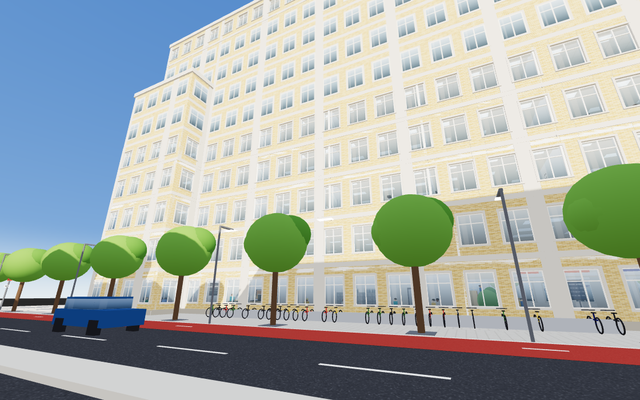
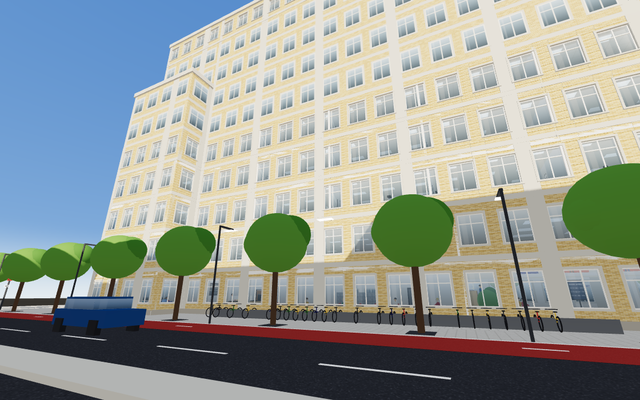
docentenleven v5
Achtervolging door een boze student (vluchten naar de 9e), 3D-modellen voor
personen en meubels, PBR-materialen met reliëf en reflecties, hoofdbeweging.

Claude-Session: https://claude.ai/code/session_01V6K2mFZpvTUMqVLnQnE36K

diff --git a/docentenleven/index.html b/docentenleven/index.html
@@ -68,6 +68,11 @@ button:disabled{opacity:.35;cursor:not-allowed}
 .tabs button{background:#fff;color:var(--ink);border:1px solid #d6d3c8;padding:6px 12px}
 .tabs button.on{background:var(--navy);color:#fff}
 .note{font-size:12.5px;color:#5b5c70}
+#chase{left:50%;top:calc(132px + env(safe-area-inset-top,0px));transform:translateX(-50%);background:rgba(150,24,24,.92);border-color:rgba(255,160,160,.5);text-align:center;max-width:min(560px,86vw);white-space:normal}
+#chase b{display:block;font-size:17px;font-weight:900;letter-spacing:.01em}
+#chase span{font-size:13px;color:#ffd9d4}
+#chasebar{height:5px;border-radius:3px;background:rgba(255,255,255,.2);margin-top:8px;overflow:hidden}#chasebar i{display:block;height:100%;width:50%;background:#ffd23f}
+#danger{position:fixed;inset:0;pointer-events:none;z-index:4;opacity:0;background:radial-gradient(ellipse at center,rgba(0,0,0,0) 45%,rgba(190,0,0,.55) 100%)}
 #fade{position:fixed;inset:0;background:#000;opacity:0;pointer-events:none;z-index:15;transition:opacity .25s}
 #joy{position:fixed;z-index:6;left:calc(24px + env(safe-area-inset-left,0px));bottom:calc(70px + env(safe-area-inset-bottom,0px));width:120px;height:120px;border-radius:50%;background:rgba(255,255,255,.08);border:1.5px solid rgba(255,255,255,.25)}
 #knob{position:absolute;left:38px;top:38px;width:44px;height:44px;border-radius:50%;background:rgba(255,255,255,.55)}
@@ -100,6 +105,8 @@ button:disabled{opacity:.35;cursor:not-allowed}
 </div>
 <div id="joy" hidden><div id="knob"></div></div>
 <button id="actbtn" type="button" hidden>E</button>
+<div id="danger"></div>
+<div id="chase" class="hud plate" hidden><b id="chase-t">Een student zit achter je aan!</b><span id="chase-s">Hij is het niet eens met zijn beoordeling. Vlucht naar de 9e verdieping.</span><div id="chasebar"><i id="chase-i"></i></div></div>
 <div id="fade"></div>
 
 <!-- start -->
@@ -118,8 +125,9 @@ button:disabled{opacity:.35;cursor:not-allowed}
         <span class="key">E</span><span>oppakken, lift of trap nemen</span>
         <span class="key">N</span><span>agenda met aanwijzingen</span>
         <span class="key">M</span><span>plattegrond per verdieping</span>
+        <span class="key">!</span><span>krijg je een melding dat een boze student achter je aan zit? Ren (Shift) naar de 9e verdieping, daar ben je veilig.</span>
       </div>
-      <div class="row"><button class="primary" id="b-start" type="button">Begin de zoektocht</button><span class="note">Op telefoon: joystick links, veeg rechts om te kijken. · v4</span></div>
+      <div class="row"><button class="primary" id="b-start" type="button">Begin de zoektocht</button><span class="note">Op telefoon: joystick links, veeg rechts om te kijken. · v5</span></div>
     </div>
   </div>
 </div>
@@ -165,12 +173,12 @@ const renderer=new THREE.WebGLRenderer({antialias:true});
 renderer.setPixelRatio(Math.min(window.devicePixelRatio||1,1.75));
 renderer.setSize(innerWidth,innerHeight);
 renderer.outputEncoding=THREE.sRGBEncoding;
-renderer.toneMapping=THREE.ACESFilmicToneMapping;renderer.toneMappingExposure=1.12;
+renderer.toneMapping=THREE.ACESFilmicToneMapping;renderer.toneMappingExposure=0.95;
 renderer.shadowMap.enabled=true;renderer.shadowMap.type=THREE.PCFSoftShadowMap;renderer.shadowMap.autoUpdate=false;
 document.getElementById('stage').appendChild(renderer.domElement);
 const C=c=>new THREE.Color(c).convertSRGBToLinear();
 // per-pixel matte material: unlike Lambert in r128, each light is shadowed separately, so the interior fill lights still work in the sun's shadow
-const LM=o=>new THREE.MeshPhongMaterial(Object.assign({specular:0x000000,shininess:2},o));
+const LM=o=>new THREE.MeshStandardMaterial(Object.assign({roughness:0.82,metalness:0,envMapIntensity:0.35},o));
 const scene=new THREE.Scene();
 scene.fog=new THREE.Fog(C(0xdbe5ec),90,330);
 const camera=new THREE.PerspectiveCamera(70,innerWidth/innerHeight,0.05,900);
@@ -181,13 +189,17 @@ const sky=new THREE.Mesh(new THREE.SphereGeometry(600,32,16),new THREE.ShaderMat
   vertexShader:'varying vec3 vD;void main(){vD=normalize(position);gl_Position=projectionMatrix*modelViewMatrix*vec4(position,1.);}',
   fragmentShader:'uniform vec3 top;uniform vec3 mid;uniform vec3 bot;uniform vec3 sunDir;varying vec3 vD;void main(){float h=vD.y;vec3 c=h>0.?mix(mid,top,pow(h,0.55)):bot;c=mix(bot,c,smoothstep(-0.02,0.18,h));float s=max(dot(normalize(vD),sunDir),0.);c+=vec3(1.,.93,.78)*(pow(s,600.)*1.5+pow(s,12.)*0.18);gl_FragColor=vec4(c,1.);}'}));
 sky.renderOrder=-1;scene.add(sky);
+// image-based light from the same sky, so every surface picks up soft reflections and sky light
+{const pm=new THREE.PMREMGenerator(renderer);const es=new THREE.Scene();es.add(new THREE.Mesh(sky.geometry,sky.material));
+ const gnd=new THREE.Mesh(new THREE.CircleGeometry(400,24),new THREE.MeshBasicMaterial({color:0x8d8a82}));gnd.rotation.x=-Math.PI/2;gnd.position.y=-2;es.add(gnd);
+ scene.environment=pm.fromScene(es,0.02).texture;pm.dispose();}
 const hemi=new THREE.HemisphereLight(C(0xe3edff),C(0x9a8a70),0.85);scene.add(hemi);
 const amb=new THREE.AmbientLight(C(0xffffff),0.32);scene.add(amb);
 // interior fill: daylight through the street-side windows plus warm light from the fittings; faded in when you walk inside
 const fillWin=new THREE.DirectionalLight(C(0xdfe9ff),0);fillWin.position.set(0.25,0.5,1);scene.add(fillWin);
 const fillWarm=new THREE.DirectionalLight(C(0xffe2bd),0);fillWarm.position.set(-0.6,1,-0.35);scene.add(fillWarm);
 let inMix=0;
-const sun=new THREE.DirectionalLight(C(0xfff0d6),2.3);
+const sun=new THREE.DirectionalLight(C(0xfff0d6),1.9);
 sun.position.set(0.45,0.55,0.7).normalize().multiplyScalar(160);sun.castShadow=true;
 Object.assign(sun.shadow.camera,{left:-85,right:85,top:85,bottom:-85,near:20,far:340});
 sun.shadow.mapSize.set(4096,4096);sun.shadow.bias=-0.00035;sun.shadow.normalBias=0.035;
@@ -213,8 +225,14 @@ function drawBricks(g,x0,y0,w,h,ppm,pal=YB,mortar='#ddd5c3'){
   let row=0;for(let y=y0;y<y0+h;y+=bh,row++){const off=(row%2)*bw/2;for(let x=x0-off;x<x0+w;x+=bw){g.fillStyle=pal[Math.floor(rnd()*pal.length)];const xa=Math.max(x0,x),xb=Math.min(x0+w,x+bw-m);if(xb>xa)g.fillRect(xa,y,xb-xa,Math.min(bh-m,y0+h-y));}}
 }
 const brickBase=tex(cvs(264,150,(g,w,h)=>drawBricks(g,0,0,w,h,300)));
+// height -> normal map (linear), for real relief on bricks, tiles, planks and terrazzo
+function nrm(src,str,lum){const w=src.width,h=src.height,d=src.getContext('2d').getImageData(0,0,w,h).data;
+  const H=(x,y)=>{const i=(((y+h)%h)*w+((x+w)%w))*4;return lum?(d[i]+d[i+1]+d[i+2])/765:d[i]/255;};
+  const c=cvs(w,h,(g)=>{const im=g.createImageData(w,h);for(let y=0;y<h;y++)for(let x=0;x<w;x++){const dx=(H(x+1,y)-H(x-1,y))*str,dy=(H(x,y+1)-H(x,y-1))*str,l=1/Math.hypot(dx,dy,1),i=(y*w+x)*4;im.data[i]=(-dx*l*0.5+0.5)*255;im.data[i+1]=(dy*l*0.5+0.5)*255;im.data[i+2]=(l*0.5+0.5)*255;im.data[i+3]=255;}g.putImageData(im,0,0);});
+  const t=new THREE.CanvasTexture(c);t.wrapS=t.wrapT=THREE.RepeatWrapping;t.anisotropy=MAXANI;return t;}
+const brickN=nrm(cvs(264,150,(g,w,h)=>{drawBricks(g,0,0,w,h,300,['#ffffff'],'#2a2a2a');}),3.2);
 const brickCache={};
-function brickM(w,h){const k=w.toFixed(2)+'x'+h.toFixed(2);if(!brickCache[k]){const t=brickBase.clone();t.needsUpdate=true;t.repeat.set(w/0.88,h/0.5);brickCache[k]=LM({map:t});}return brickCache[k];}
+function brickM(w,h){const k=w.toFixed(2)+'x'+h.toFixed(2);if(!brickCache[k]){const t=brickBase.clone();t.needsUpdate=true;t.repeat.set(w/0.88,h/0.5);const n=brickN.clone();n.needsUpdate=true;n.repeat.copy(t.repeat);brickCache[k]=LM({map:t,normalMap:n,normalScale:new THREE.Vector2(0.9,0.9),roughness:0.92});}return brickCache[k];}
 function noiseTex(base,size=256,amp=18,speck){return cvs(size,size,(g,w,h)=>{g.fillStyle=base;g.fillRect(0,0,w,h);for(let i=0;i<w*h/6;i++){const v=(rnd()-.5)*amp;g.fillStyle=`rgba(${v>0?255:0},${v>0?255:0},${v>0?255:0},${Math.abs(v)/100})`;g.fillRect(rnd()*w,rnd()*h,1.5,1.5);}if(speck)for(let i=0;i<speck.n;i++){g.fillStyle=pick(speck.c);const r=rnd()*speck.r+0.6;g.beginPath();g.arc(rnd()*w,rnd()*h,r,0,7);g.fill();}});}
 const T={
   terrazzo:tex(noiseTex('#d6d0c4',256,14,{n:900,c:['#9b958a','#6f6a62','#b9ab92','#eee9df','#8c7a64'],r:2.2})),
@@ -233,6 +251,7 @@ const corkTex=tex(cvs(256,160,(g,w,h)=>{g.fillStyle='#b88a55';g.fillRect(0,0,w,h
 const glassTex=tex(cvs(32,128,(g,w,h)=>{const gr=g.createLinearGradient(0,0,0,h);gr.addColorStop(0,'#b7cde0');gr.addColorStop(0.45,'#7f97aa');gr.addColorStop(1,'#3e4f5c');g.fillStyle=gr;g.fillRect(0,0,w,h);g.fillStyle='rgba(255,255,255,.12)';g.fillRect(4,0,6,h);}));
 const stainedTex=tex(cvs(128,128,(g)=>{const pal=['#e9b93a','#d66b2e','#2f5fa8','#3d8c5a','#f2e6c2','#b83a3a','#6fa0c9','#f0d27a'];for(let i=0;i<6;i++)for(let j=0;j<6;j++){const w=128/6;g.fillStyle=pick(pal);g.fillRect(i*w,j*w,w*(rnd()<.25?2:1),w);}g.strokeStyle='#1b1b1b';g.lineWidth=3;for(let i=0;i<=6;i++){g.beginPath();g.moveTo(i*128/6,0);g.lineTo(i*128/6,128);g.stroke();g.beginPath();g.moveTo(0,i*128/6);g.lineTo(128,i*128/6);g.stroke();}}));
 
+const FLOORN=new Map([[T.terrazzo,[nrm(T.terrazzo.image,2.2,true),0.38]],[T.tiles,[nrm(T.tiles.image,4,true),0.3]],[T.wood,[nrm(T.wood.image,5,true),0.5]],[T.lino,[nrm(T.lino.image,1.2,true),0.55]],[T.carpet,[nrm(T.carpet.image,1.5,true),0.97]],[T.libcarpet,[nrm(T.libcarpet.image,1.5,true),0.97]],[T.asphalt,[nrm(T.asphalt.image,1.6,true),0.9]]]);
 function textCanvas(w,h,bg,draw){return cvs(w,h,(g)=>{g.fillStyle=bg;g.fillRect(0,0,w,h);draw(g,w,h);});}
 const SANS='"Helvetica Neue",Arial,sans-serif';
 function signTex(code,name,bg='#1d1f5e',fg='#ffffff'){return tex(textCanvas(512,256,bg,(g)=>{g.fillStyle=fg;g.font=`bold 92px ${SANS}`;g.fillText(code,30,120);g.font=`500 44px ${SANS}`;g.globalAlpha=.85;g.fillText(name,32,200);}));}
@@ -259,16 +278,27 @@ const mat={
   hair:[L(0x2a2b30),L(0x5a3a22),L(0x8a6a3a),L(0xd9b45a),L(0x111111)],
 };
 
+for(const [m,r,mt] of [[mat.steel,0.32,0.75],[mat.steelDark,0.4,0.6],[mat.copier,0.5,0],[mat.wood,0.55,0],[mat.woodDark,0.5,0],[mat.white,0.45,0],[mat.frame,0.45,0.2],[mat.frameW,0.5,0],[mat.dark,0.5,0],[mat.pot,0.6,0],[mat.red,0.45,0],[mat.screen,0.2,0],[mat.blackCeil,0.95,0],[mat.roof,0.95,0],[mat.conc,0.9,0]])Object.assign(m,{roughness:r,metalness:mt});
+Object.assign(mat.glass,{roughness:0.06,metalness:0.25,envMapIntensity:1.4});Object.assign(mat.glassIn,{roughness:0.05,envMapIntensity:1.2});
+mat.skin.forEach(m=>m.roughness=0.6);mat.hair.forEach(m=>m.roughness=0.7);
+mat.eye=L(0x1a1a1a,{roughness:0.2});mat.shoe=L(0x222226,{roughness:0.55});mat.sole=L(0xe9e6df);
 // ================= instanced batching =================
-const geos={box:new THREE.BoxGeometry(1,1,1),cyl:new THREE.CylinderGeometry(.5,.5,1,18),sph:new THREE.SphereGeometry(.5,16,12),tor:new THREE.TorusGeometry(.32,.028,6,18)};
+function roundedBox(r,k=3){const N=2*k+1,g=new THREE.BoxGeometry(1,1,1,N,N,N),pos=g.attributes.position,nor=g.attributes.normal,h=0.5-r;
+  const map=u=>{const i=Math.round((u+0.5)*N);return i<=k?-0.5+r*i/k:h+r*(i-k-1)/k;};const v=new THREE.Vector3(),c=new THREE.Vector3();
+  for(let i=0;i<pos.count;i++){v.set(map(pos.getX(i)),map(pos.getY(i)),map(pos.getZ(i)));c.set(Math.max(-h,Math.min(h,v.x)),Math.max(-h,Math.min(h,v.y)),Math.max(-h,Math.min(h,v.z)));v.sub(c).normalize();nor.setXYZ(i,v.x,v.y,v.z);v.multiplyScalar(r).add(c);pos.setXYZ(i,v.x,v.y,v.z);}
+  return g;}
+const geos={box:new THREE.BoxGeometry(1,1,1),cyl:new THREE.CylinderGeometry(.5,.5,1,18),sph:new THREE.SphereGeometry(.5,20,14),tor:new THREE.TorusGeometry(.32,.028,8,24),rb:roundedBox(0.16),rs:roundedBox(0.3),cap:new THREE.CylinderGeometry(.5,.42,1,16)};
 const batches=new Map();
-function P(geo,group,m,x,y,z,sx,sy,sz,ry=0){const key=geo+'|'+group.id+'|'+(Array.isArray(m)?m.map(a=>a.id).join(','):m.id);let b=batches.get(key);if(!b){b={geo,group,m,items:[]};batches.set(key,b);}b.items.push([x,y+sy/2,z,sx,sy,sz,ry]);}
-const B=(g,m,x,y,z,sx,sy,sz,ry)=>P('box',g,m,x,y,z,sx,sy,sz,ry);
-function flush(){const m4=new THREE.Matrix4(),q=new THREE.Quaternion(),p=new THREE.Vector3(),s=new THREE.Vector3(),up=new THREE.Vector3(0,1,0);
-  for(const b of batches.values()){const im=new THREE.InstancedMesh(geos[b.geo],b.m,b.items.length);b.items.forEach((it,i)=>{p.set(it[0],it[1],it[2]);s.set(it[3],it[4],it[5]);q.setFromAxisAngle(up,it[6]);m4.compose(p,q,s);im.setMatrixAt(i,m4);});
+function P(geo,group,m,x,y,z,sx,sy,sz,ry=0){const key=geo+'|'+group.id+'|'+(Array.isArray(m)?m.map(a=>a.id).join(','):m.id);let b=batches.get(key);if(!b){b={geo,group,m,items:[]};batches.set(key,b);}b.items.push([x,y+sy/2,z,sx,sy,sz,ry,0,0]);}
+// centred part with full rotation (Euler YXZ): limbs, arms, tilted pieces
+function Q(geo,group,m,x,y,z,sx,sy,sz,rx=0,ry=0,rz=0){P(geo,group,m,x,y-sy/2,z,sx,sy,sz,ry);batches.get(geo+'|'+group.id+'|'+m.id).items.slice(-1)[0].splice(7,2,rx,rz);}
+const SOFT=new Set([mat.cushionA,mat.cushionB,mat.cushionC]);
+const B=(g,m,x,y,z,sx,sy,sz,ry)=>P(SOFT.has(m)?'rb':'box',g,m,x,y,z,sx,sy,sz,ry);
+function flush(){const m4=new THREE.Matrix4(),q=new THREE.Quaternion(),p=new THREE.Vector3(),s=new THREE.Vector3(),up=new THREE.Vector3(0,1,0),eu=new THREE.Euler(0,0,0,'YXZ');
+  for(const b of batches.values()){const im=new THREE.InstancedMesh(geos[b.geo],b.m,b.items.length);b.items.forEach((it,i)=>{p.set(it[0],it[1],it[2]);s.set(it[3],it[4],it[5]);if(it[7]||it[8]){eu.set(it[7],it[6],it[8]);q.setFromEuler(eu);}else q.setFromAxisAngle(up,it[6]);m4.compose(p,q,s);im.setMatrixAt(i,m4);});
     im.instanceMatrix.needsUpdate=true;im.frustumCulled=false;const m0=Array.isArray(b.m)?b.m[0]:b.m;im.castShadow=!(m0.transparent||m0.isMeshBasicMaterial);im.receiveShadow=!m0.isMeshBasicMaterial;b.group.add(im);}
   batches.clear();}
-function plane(group,x0,x1,z0,z1,y,base,tile,down=false,extra={}){const w=x1-x0,d=z1-z0;const t=base.clone();t.needsUpdate=true;t.repeat.set(w/tile,d/tile);const m=LM(Object.assign({map:t,shadowSide:THREE.DoubleSide},extra));const me=new THREE.Mesh(new THREE.PlaneGeometry(w,d),m);me.rotation.x=down?Math.PI/2:-Math.PI/2;me.position.set((x0+x1)/2,y,(z0+z1)/2);me.receiveShadow=true;me.castShadow=down;group.add(me);return me;}
+function plane(group,x0,x1,z0,z1,y,base,tile,down=false,extra={}){const w=x1-x0,d=z1-z0;const t=base.clone();t.needsUpdate=true;t.repeat.set(w/tile,d/tile);const fn=!down&&FLOORN.get(base);const o={map:t,shadowSide:THREE.DoubleSide};if(fn){const n=fn[0].clone();n.needsUpdate=true;n.repeat.copy(t.repeat);o.normalMap=n;o.normalScale=new THREE.Vector2(0.6,0.6);o.roughness=fn[1];}const m=LM(Object.assign(o,extra));const me=new THREE.Mesh(new THREE.PlaneGeometry(w,d),m);me.rotation.x=down?Math.PI/2:-Math.PI/2;me.position.set((x0+x1)/2,y,(z0+z1)/2);me.receiveShadow=true;me.castShadow=down;group.add(me);return me;}
 function flat(group,x0,x1,z0,z1,y,m,down=false){const me=new THREE.Mesh(new THREE.PlaneGeometry(x1-x0,z1-z0),m);me.rotation.x=down?Math.PI/2:-Math.PI/2;me.position.set((x0+x1)/2,y,(z0+z1)/2);me.receiveShadow=true;me.castShadow=down;group.add(me);return me;}
 function sign(group,t,w,h,x,y,z,ry=0,basic=true){const m=basic?new THREE.MeshBasicMaterial({map:t,toneMapped:false}):LM({map:t});const me=new THREE.Mesh(new THREE.PlaneGeometry(w,h),m);me.position.set(x,y,z);me.rotation.y=ry;group.add(me);return me;}
 
@@ -299,10 +329,12 @@ const inside=(x,z)=>(x>-48&&x<48&&z>-9&&z<9)||(Math.abs(x)>38&&Math.abs(x)<48&&z
 
 // ================= furniture =================
 function chair(f,x,z,a,m=mat.chair,yOff=0){const g=F[f].g,y=f*FH+yOff,sx=Math.sin(a),sz=Math.cos(a);
-  B(g,m,x,y+0.42,z,0.44,0.05,0.42,a);B(g,m,x-sx*0.2,y+0.47,z-sz*0.2,0.44,0.4,0.04,a);
-  B(g,mat.steelDark,x+Math.cos(a)*0.19,y,z-Math.sin(a)*0.19,0.03,0.42,0.38,a);B(g,mat.steelDark,x-Math.cos(a)*0.19,y,z+Math.sin(a)*0.19,0.03,0.42,0.38,a);}
+  const lx=Math.cos(a),lz=-Math.sin(a);
+  P('rb',g,m,x,y+0.4,z,0.46,0.07,0.44,a);Q('rb',g,m,x-sx*0.215,y+0.72,z-sz*0.215,0.44,0.42,0.06,-0.12,a);
+  for(const u of [-0.19,0.19])for(const v of [-0.17,0.17])P('cyl',g,mat.steelDark,x+lx*u+sx*v,y,z+lz*u+sz*v,0.03,0.41,0.03);
+  for(const u of [-0.19,0.19])Q('cyl',g,mat.steelDark,x+lx*u-sx*0.2,y+0.58,z+lz*u-sz*0.2,0.025,0.36,0.025,-0.12,a);}
 function table(f,x,z,w,d,h=0.74,top=mat.wood,collide=true){const g=F[f].g,y=f*FH;B(g,top,x,y+h-0.03,z,w,0.03,d);
-  for(const sx of [-1,1])for(const sz of [-1,1])B(g,mat.steelDark,x+sx*(w/2-0.06),y,z+sz*(d/2-0.06),0.04,h-0.03,0.04);
+  for(const sx of [-1,1])for(const sz of [-1,1])P('cyl',g,mat.steelDark,x+sx*(w/2-0.06),y,z+sz*(d/2-0.06),0.045,h-0.03,0.045);
   if(collide)col(f,x-w/2,z-d/2,x+w/2,z+d/2);}
 function roundTable(f,x,z,r=0.45,h=0.74){const g=F[f].g,y=f*FH;P('cyl',g,mat.white,x,y+h-0.03,z,r*2,0.03,r*2);P('cyl',g,mat.steelDark,x,y,z,0.07,h-0.03,0.07);P('cyl',g,mat.steelDark,x,y,z,0.5,0.03,0.5);col(f,x-r*0.8,z-r*0.8,x+r*0.8,z+r*0.8);}
 function monitor(f,x,yTop,z,a){const g=F[f].g;const sx=Math.sin(a),sz=Math.cos(a);B(g,mat.dark,x,yTop,z,0.18,0.02,0.14,a);B(g,mat.dark,x-sx*0.04,yTop,z-sz*0.04,0.04,0.2,0.03,a);B(g,mat.frame,x-sx*0.03,yTop+0.16,z-sz*0.03,0.58,0.36,0.03,a);B(g,mat.screenOn,x+sx*(-0.03+0.016),yTop+0.18,z+sz*(-0.03+0.016),0.53,0.31,0.005,a);}
@@ -314,8 +346,20 @@ function desk(f,x,z,a){const g=F[f].g,y=f*FH,s=Math.sin(a),c=Math.cos(a);const a
   const side=Math.abs(s)>0.5;col(f,x-(side?0.3:0.7),z-(side?0.7:0.3),x+(side?0.3:0.7),z+(side?0.7:0.3));}
 function plant(f,x,z,big=false,y0){const g=F[f].g,y=y0!==undefined?y0:f*FH;const s=big?1.5:1;P('cyl',g,mat.pot,x,y,z,0.45*s,0.45*s,0.45*s);P('sph',g,mat.green,x,y+0.4*s,z,0.8*s,0.9*s,0.8*s);P('sph',g,mat.green2,x+0.12*s,y+0.8*s,z-0.08*s,0.5*s,0.6*s,0.5*s);col(f,x-0.25*s,z-0.25*s,x+0.25*s,z+0.25*s);}
 function person(f,x,z,a,seated=true,yOff=0){const g=F[f].g,y=f*FH+yOff,sx=Math.sin(a),sz=Math.cos(a);const shirt=pick(mat.shirts),skin=pick(mat.skin),pant=pick(mat.pants),hair=pick(mat.hair);
-  if(seated){B(g,pant,x+sx*0.18,y+0.45,z+sz*0.18,0.36,0.14,0.46,a);B(g,pant,x+sx*0.4,y,z+sz*0.4,0.32,0.46,0.12,a);B(g,shirt,x,y+0.56,z,0.42,0.56,0.24,a);P('sph',g,skin,x,y+1.12,z,0.22,0.25,0.22);P('sph',g,hair,x-sx*0.02,y+1.2,z-sz*0.02,0.235,0.18,0.235);}
-  else{B(g,pant,x,y,z,0.34,0.85,0.2,a);B(g,shirt,x,y+0.85,z,0.44,0.62,0.24,a);P('sph',g,skin,x,y+1.48,z,0.23,0.26,0.23);P('sph',g,hair,x-sx*0.02,y+1.57,z-sz*0.02,0.245,0.18,0.245);col(f,x-0.22,z-0.22,x+0.22,z+0.22);}}
+  const lx=Math.cos(a),lz=-Math.sin(a),at=(u,v)=>[x+lx*u+sx*v,z+lz*u+sz*v];// u = sideways, v = forward
+  const head=(hy)=>{let q=at(0,0);Q('cyl',g,skin,q[0],hy-0.17,q[1],0.1,0.1,0.1);Q('sph',g,skin,q[0],hy,q[1],0.2,0.25,0.22);
+    q=at(0,-0.015);Q('sph',g,hair,q[0],hy+0.05,q[1],0.215,0.19,0.23);
+    for(const u of [-0.045,0.045]){q=at(u,0.1);Q('sph',g,mat.eye,q[0],hy+0.015,q[1],0.028,0.032,0.02);}q=at(0,0.112);Q('sph',g,skin,q[0],hy-0.025,q[1],0.04,0.055,0.05);};
+  if(seated){
+    let q=at(0,-0.02);Q('rb',g,pant,q[0],y+0.53,q[1],0.36,0.16,0.26,0,a);Q('rs',g,shirt,q[0],y+0.84,q[1],0.4,0.5,0.24,0,a);
+    for(const u of [-0.1,0.1]){q=at(u,0.2);Q('cyl',g,pant,q[0],y+0.52,q[1],0.15,0.44,0.15,Math.PI/2,a);q=at(u,0.42);Q('cyl',g,pant,q[0],y+0.27,q[1],0.13,0.46,0.13);q=at(u,0.46);Q('rb',g,mat.shoe,q[0],y+0.04,q[1],0.11,0.08,0.25,0,a);}
+    for(const u of [-0.24,0.24]){q=at(u*0.95,0.15);Q('cap',g,shirt,q[0],y+0.9,q[1],0.1,0.42,0.1,-0.95,a,u>0?0.12:-0.12);q=at(u*0.8,0.31);Q('sph',g,skin,q[0],y+0.79,q[1],0.085,0.08,0.1);}
+    head(y+1.27);}
+  else{let q;
+    for(const u of [-0.1,0.1]){q=at(u,0);Q('cyl',g,pant,q[0],y+0.47,q[1],0.15,0.8,0.15);q=at(u,0.04);Q('rb',g,mat.shoe,q[0],y+0.045,q[1],0.12,0.09,0.27,0,a);}
+    q=at(0,0);Q('rb',g,pant,q[0],y+0.88,q[1],0.36,0.16,0.22,0,a);Q('rs',g,shirt,q[0],y+1.17,q[1],0.42,0.56,0.24,0,a);
+    for(const u of [-0.255,0.255]){q=at(u,0);Q('cap',g,shirt,q[0],y+1.14,q[1],0.11,0.58,0.11,0,a,u>0?-0.06:0.06);q=at(u*1.06,0);Q('sph',g,skin,q[0],y+0.8,q[1],0.09,0.1,0.09);}
+    head(y+1.62);col(f,x-0.22,z-0.22,x+0.22,z+0.22);}}
 // wall-mounted things; a = direction the panel faces
 function onWall(f,m,x,z,a,w,h,y0,d,off){const g=F[f].g;B(g,m,x+Math.sin(a)*off,f*FH+y0,z+Math.cos(a)*off,w,h,d,a);}
 function whiteboard(f,x,z,a,w=2.4){onWall(f,mat.steel,x,z,a,w+0.06,1.26,0.88,0.03,0.02);onWall(f,mat.white,x,z,a,w,1.2,0.91,0.02,0.045);onWall(f,mat.steel,x,z,a,w*0.9,0.03,0.86,0.08,0.08);}
@@ -883,7 +927,7 @@ function doInteract(){if(curInter)curInter.act();}
 function collect(pl){if(pl.found)return;pl.found=true;pl.grp.visible=false;found++;renderSlots();renderAgenda();
   toast(`Gevonden: ${pl.subject} (${found}/${NPILES})`+(found===NPILES?' · Breng ze naar KSH 02B03 op de 2e verdieping':''));}
 function deliver(){if(found<NPILES){toast(`Je hebt pas ${found} van de ${NPILES} stapels. De studenten kijken je vragend aan…`);return;}
-  state='end';unlockMouse();const t=clockStr();const late=gameT>=30*60;
+  state='end';if(ch.on)endChase();unlockMouse();const t=clockStr();const late=gameT>=30*60;
   $('end-time').textContent=t;$('end-title').textContent=late?'Te laat, maar compleet':'Toetsen uitgedeeld';
   $('end-text').textContent=late?`Het is ${t}. De studenten zaten al even te wachten, maar alle zes de toetsen liggen op tafel en het tentamen kan beginnen.`:`Het is ${t}. Alle zes de stapels liggen op tafel in 02B03 en je hebt nog ${30-Math.ceil(gameT/60)} minuten over voor een kop koffie in het café. Het tentamen begint op tijd.`;
   show('ov-end');}
@@ -913,7 +957,7 @@ function openFloor(kind){closeAll();menuOpen=true;unlockMouse();$('fl-eyebrow').
     else{b.innerHTML=`<span class="n">${f}</span><span>${floorLabel(f)}<small>${FLOORDESC[f]}</small></span>`;if(f===p.f){b.classList.add('cur');b.disabled=true;}b.onclick=()=>goFloor(f,kind);}
     list.appendChild(b);}
   show('ov-floor');}
-function goFloor(f,kind){closeAll();const fd=$('fade');fd.style.opacity=1;setTimeout(()=>{p.f=f;if(kind==='lift'){p.x=-17;p.z=0.5;}else{p.x=17;p.z=0.4;}p.yaw=Math.PI;p.pitch=0;p.gy=0;updateVis();fd.style.opacity=0;toast(floorLabel(f)+(f===2?' · tentamenzaal 02B03 ligt aan de straatkant, noordelijk':f===9?' · de Kohnstammzaal is rechts':''));},kind==='lift'?450:300);if(!isTouch)lock();}
+function goFloor(f,kind){closeAll();const fd=$('fade');fd.style.opacity=1;setTimeout(()=>{p.f=f;if(kind==='lift'){p.x=-17;p.z=0.5;}else{p.x=17;p.z=0.4;}p.yaw=Math.PI;p.pitch=0;p.gy=0;updateVis();fd.style.opacity=0;toast(floorLabel(f)+(f===2?' · tentamenzaal 02B03 ligt aan de straatkant, noordelijk':f===9?' · de Kohnstammzaal is rechts':''));onFloorChange(kind);},kind==='lift'?450:300);if(!isTouch)lock();}
 let visKey='';
 function updateVis(){const ins=inside(p.x,p.z);FLOORS.forEach(i=>{F[i].g.visible=!ins||i===p.f||(p.f<=1&&i<=1);});const k=FLOORS.map(i=>F[i].g.visible?1:0).join('');if(k!==visKey){visKey=k;renderer.shadowMap.needsUpdate=true;}}
 
@@ -933,6 +977,7 @@ function drawPlan(ctx,W,H,f,detail){ctx.fillStyle='#15173a';ctx.fillRect(0,0,W,H
   if(detail){ctx.textAlign='center';ctx.textBaseline='middle';for(const r of rooms){if(!r.code&&r.area<60)continue;const w=(r.x1-r.x0)*s;const fs=Math.max(9,Math.min(16,w/5.2));ctx.font=`600 ${fs}px "IBM Plex Mono",monospace`;ctx.fillStyle='#fff';const cx=tx((r.x0+r.x1)/2),cy=tz((r.z0+r.z1)/2);ctx.fillText(r.code||r.name,cx,cy-(r.code?fs*0.55:0));if(r.code){ctx.font=`500 ${fs*0.78}px "Archivo",sans-serif`;ctx.fillStyle='#c9cbe6';ctx.fillText(r.name.length>14?r.name.slice(0,13)+'…':r.name,cx,cy+fs*0.6);}}
     ctx.font='600 16px "Archivo",sans-serif';ctx.fillStyle='#e8e6de';ctx.fillText('Wibautstraat',tx(0),tz(18.2));ctx.fillText('Noord',tx(-50.5),tz(0));ctx.fillText('Zuid',tx(50.5),tz(0));}
   piles.forEach(pl=>{if(pl.found&&pl.spot.f===f){ctx.fillStyle='#7cd67c';ctx.beginPath();ctx.arc(tx(pl.spot.x),tz(pl.spot.z),Math.max(3,s*0.35),0,7);ctx.fill();}});
+  if(ch.on&&ch.arrive<=0&&ch.f===f){ctx.fillStyle='#ff4d3d';ctx.beginPath();ctx.arc(tx(ch.x),tz(ch.z),Math.max(4,s*0.5),0,7);ctx.fill();}
   if(f===p.f){const px=tx(p.x),pz=tz(p.z);ctx.save();ctx.translate(px,pz);ctx.rotate(-p.yaw);ctx.fillStyle='#ffd23f';ctx.beginPath();const k=Math.max(6,s*0.9);ctx.moveTo(0,-k);ctx.lineTo(k*0.6,k*0.6);ctx.lineTo(0,k*0.25);ctx.lineTo(-k*0.6,k*0.6);ctx.closePath();ctx.fill();ctx.restore();}
 }
 let mapFloor=0;
@@ -945,8 +990,60 @@ function locate(){
   if(!best)return {code:'Kohnstammhuis',name:floorLabel(p.f)};
   return {code:best.code?'KSH '+best.code:best.name,name:(best.code?best.name+' · ':'')+floorLabel(p.f)};}
 
+// ================= chase: a student who disagrees with their grade =================
+const GC=0.4,GX0=-50,GZ0=-14,GW=250,GH=80;const grids={};
+function grid(f){if(grids[f])return grids[f];const a=new Uint8Array(GW*GH);for(let j=0;j<GH;j++)for(let i=0;i<GW;i++){const x=GX0+(i+0.5)*GC,z=GZ0+(j+0.5)*GC;a[j*GW+i]=blocked(f,x,z)?0:1;}return grids[f]=a;}
+const cellOf=(x,z)=>{const i=Math.floor((x-GX0)/GC),j=Math.floor((z-GZ0)/GC);return (i<0||j<0||i>=GW||j>=GH)?-1:j*GW+i;};
+const dist=new Int32Array(GW*GH),bq=new Int32Array(GW*GH);
+function flow(f,x,z){const g=grid(f);dist.fill(-1);let c=cellOf(x,z);if(c<0)return false;if(!g[c]){for(const d of [1,-1,GW,-GW])if(g[c+d]){c=c+d;break;}}let h=0,t=0;bq[t++]=c;dist[c]=0;
+  while(h<t){const k=bq[h++],i=k%GW,dd=dist[k]+1;if(i>0&&g[k-1]&&dist[k-1]<0){dist[k-1]=dd;bq[t++]=k-1;}if(i<GW-1&&g[k+1]&&dist[k+1]<0){dist[k+1]=dd;bq[t++]=k+1;}if(k>=GW&&g[k-GW]&&dist[k-GW]<0){dist[k-GW]=dd;bq[t++]=k-GW;}if(k<GW*(GH-1)&&g[k+GW]&&dist[k+GW]<0){dist[k+GW]=dd;bq[t++]=k+GW;}}return true;}
+// the student: a real animated 3D figure (separate meshes so arms and legs can swing)
+function makeWalker(){const W=new THREE.Group(),S=(geo,m,x,y,z,sx,sy,sz,par=W)=>{const me=new THREE.Mesh(geos[geo],m);me.position.set(x,y,z);me.scale.set(sx,sy,sz);me.castShadow=true;par.add(me);return me;};
+  const shirt=L(0xd04a2c),pant=L(0x2b3346),skin=mat.skin[1],hair=mat.hair[0];
+  const limb=(x,y,m,len,r,foot)=>{const piv=new THREE.Group();piv.position.set(x,y,0);W.add(piv);S('cap',m,0,-len/2,0,r,len,r,piv);if(foot)S('rb',mat.shoe,0,-len-0.0,0.05,0.12,0.09,0.27,piv);else S('sph',skin,0,-len-0.03,0,0.09,0.1,0.09,piv);return piv;};
+  const legs=[limb(-0.1,0.88,pant,0.8,0.15,true),limb(0.1,0.88,pant,0.8,0.15,true)];
+  S('rb',pant,0,0.88,0,0.36,0.16,0.22);S('rs',shirt,0,1.17,0,0.42,0.56,0.25);
+  const arms=[limb(-0.265,1.4,shirt,0.56,0.11,false),limb(0.265,1.4,shirt,0.56,0.11,false)];
+  S('cyl',skin,0,1.45,0,0.1,0.1,0.1);const hd=new THREE.Group();hd.position.y=1.62;W.add(hd);S('sph',skin,0,0,0,0.2,0.25,0.22,hd);S('sph',hair,0,0.06,-0.015,0.215,0.18,0.23,hd);
+  for(const u of [-0.045,0.045]){S('sph',mat.eye,u,0.015,0.1,0.028,0.032,0.02,hd);S('box',mat.dark,u,0.07,0.1,0.06,0.012,0.01,hd).rotation.z=u>0?0.35:-0.35;}// angry eyebrows
+  S('sph',skin,0,-0.025,0.112,0.04,0.055,0.05,hd);S('box',mat.dark,0,-0.08,0.105,0.07,0.012,0.01,hd);
+  // the graded paper, waved around
+  const paper=S('box',mat.paper,0,-0.62,0.06,0.21,0.005,0.29,arms[1]);paper.rotation.x=0.4;
+  const bub=new THREE.Sprite(new THREE.SpriteMaterial({map:plainText([{t:'Dit is geen 5,4!',s:64}],{bg:'#ffffff',fg:'#b3261e',w:512,h:120}),toneMapped:false,depthTest:false}));bub.scale.set(1.3,0.3,1);bub.position.y=2.25;bub.renderOrder=5;W.add(bub);
+  W.visible=false;scene.add(W);return {g:W,legs,arms,bub};}
+const walker=makeWalker();
+const LINES=['Dit is geen 5,4!','Ik wil inzage!','Vraag 3 was goed!','Meneer, één momentje!','Mevrouw, wacht even!','Dat stond niet in de stof!'];
+const ch={on:false,f:0,x:0,z:0,next:95,t:0,arrive:0,fx:0,fz:0,ftimer:0,phase:0,line:0,warned:false};
+const NPC_SP=4.5;
+function startChase(){if(!flow(p.f,p.x,p.z))return false;const c=[];for(let k=0;k<dist.length;k++){const d=dist[k]*GC;if(d>15&&d<24)c.push(k);}if(!c.length)return false;
+  const k=c[Math.floor(Math.random()*c.length)];Object.assign(ch,{on:true,f:p.f,x:GX0+(k%GW+0.5)*GC,z:GZ0+(Math.floor(k/GW)+0.5)*GC,t:0,arrive:0,ftimer:0});
+  sayLine();$('chase').hidden=false;$('chase-t').textContent='Een student zit achter je aan!';$('chase-s').textContent='Hij is het niet eens met zijn beoordeling. Ren (Shift) naar de 9e verdieping om veilig te zijn.';
+  toast('⚠ Een boze student komt eraan. Vlucht naar de 9e!');beep(2);return true;}
+function sayLine(){ch.line=(ch.line+1)%LINES.length;walker.bub.material.map=plainText([{t:LINES[ch.line],s:64}],{bg:'#ffffff',fg:'#b3261e',w:512,h:120});walker.bub.material.needsUpdate=true;}
+function endChase(msg){ch.on=false;walker.g.visible=false;$('chase').hidden=true;$('danger').style.opacity=0;ch.next=80+Math.random()*60;if(msg)toast(msg);}
+function caught(){gameT+=5*60;endChase('De student houdt je vijf minuten aan de praat over vraag 3. Je bent tijd kwijt!');const fd=$('fade');fd.style.background='#7a0000';fd.style.opacity=0.6;setTimeout(()=>{fd.style.opacity=0;setTimeout(()=>fd.style.background='#000',300);},350);beep(1,180);}
+function onFloorChange(kind){if(!ch.on)return;if(p.f===9){endChase('Veilig op de 9e! De student geeft het op en stuurt je wel een mail.');beep(1,880);return;}
+  ch.f=p.f;ch.arrive=kind==='lift'?7:5;ch.x=kind==='lift'?-17:17;ch.z=kind==='lift'?0.5:0.4;$('chase-t').textContent='De student volgt je '+(kind==='lift'?'met de lift':'via de trap')+'!';}
+let actx=null;function beep(n=1,fr=520){try{actx=actx||new (window.AudioContext||window.webkitAudioContext)();for(let i=0;i<n;i++){const o=actx.createOscillator(),g=actx.createGain(),t0=actx.currentTime+i*0.18;o.frequency.value=fr;o.type='square';g.gain.setValueAtTime(0.06,t0);g.gain.exponentialRampToValueAtTime(0.001,t0+0.15);o.connect(g).connect(actx.destination);o.start(t0);o.stop(t0+0.16);}}catch(e){}}
+function updateChase(dt){
+  if(!ch.on){if(state==='play'&&inside(p.x,p.z)&&p.f!==9){ch.next-=dt;if(ch.next<=0&&!startChase())ch.next=5;}return;}
+  ch.t+=dt;if(ch.arrive>0){ch.arrive-=dt;walker.g.visible=false;if(ch.arrive<=0)sayLine();else return;}
+  ch.ftimer-=dt;if(ch.ftimer<=0){ch.ftimer=0.3;flow(ch.f,p.x,p.z);}
+  const d0=Math.hypot(p.x-ch.x,p.z-ch.z);let tx=p.x,tz=p.z;
+  if(d0>1.6){const c=cellOf(ch.x,ch.z);let best=c,bd=c>=0&&dist[c]>=0?dist[c]:1e9;if(c>=0)for(const o of [1,-1,GW,-GW,GW+1,GW-1,-GW+1,-GW-1]){const k=c+o;if(k>=0&&k<dist.length&&dist[k]>=0&&dist[k]<bd){bd=dist[k];best=k;}}
+    if(best>=0&&best!==c){tx=GX0+(best%GW+0.5)*GC;tz=GZ0+(Math.floor(best/GW)+0.5)*GC;}}
+  const dx=tx-ch.x,dz=tz-ch.z,dl=Math.hypot(dx,dz)||1,st=Math.min(dl,NPC_SP*dt);ch.x+=dx/dl*st;ch.z+=dz/dl*st;
+  ch.phase+=dt*NPC_SP*2.6;const sw=Math.sin(ch.phase)*0.75;
+  walker.legs[0].rotation.x=sw;walker.legs[1].rotation.x=-sw;walker.arms[0].rotation.x=-sw*0.8;walker.arms[1].rotation.x=-1.9+Math.sin(ch.phase*2)*0.35;
+  walker.g.position.set(ch.x,ch.f*FH+groundH(ch.f,ch.x,ch.z)+Math.abs(Math.cos(ch.phase))*0.05,ch.z);walker.g.rotation.y=Math.atan2(dx,dz);walker.g.visible=F[ch.f].g.visible;
+  if(Math.floor(ch.t/3.5)!==Math.floor((ch.t-dt)/3.5))sayLine();
+  const near=ch.f===p.f?Math.hypot(p.x-ch.x,p.z-ch.z):99;
+  $('danger').style.opacity=Math.max(0,Math.min(0.95,(14-near)/12))*(0.75+0.25*Math.sin(ch.t*9));
+  $('chase-i').style.width=Math.max(4,Math.min(100,100-near*5))+'%';
+  if(near<0.85)caught();}
+
 // ================= loop =================
-let last=performance.now(),frame=0,lastLoc='';
+let last=performance.now(),frame=0,lastLoc='',bobT=0,bobA=0;
 function loop(now){const dt=Math.min(0.05,(now-last)/1000);last=now;frame++;
   if(state==='play'&&!menuOpen){
     let mx=0,mz=0;if(keys.KeyW||keys.ArrowUp)mz+=1;if(keys.KeyS||keys.ArrowDown)mz-=1;if(keys.KeyA||keys.ArrowLeft)mx-=1;if(keys.KeyD||keys.ArrowRight)mx+=1;
@@ -959,10 +1056,13 @@ function loop(now){const dt=Math.min(0.05,(now-last)/1000);last=now;frame++;
     gameT+=dt*2.5;
     if(gameT>=30*60&&!lateShown){lateShown=true;$('clock').classList.add('late');toast('09:00. Het tentamen had moeten beginnen. Opschieten!');}
     if(frame%10===0)updateVis();
+    updateChase(dt);
+    const mv=Math.hypot(dx,dz)/Math.max(dt,1e-4);bobA+=((mv>0.5?1:0)-bobA)*Math.min(1,dt*8);bobT+=dt*mv*2.1;
+    const fovT=mv>5?76:70;if(Math.abs(camera.fov-fovT)>0.05){camera.fov+=(fovT-camera.fov)*Math.min(1,dt*6);camera.updateProjectionMatrix();}
   }
-  {const ins=inside(p.x,p.z)?1:0;inMix+=(ins-inMix)*Math.min(1,dt*3);fillWin.intensity=0.55*inMix;fillWarm.intensity=0.35*inMix;hemi.intensity=0.85-0.3*inMix;amb.intensity=0.32-0.14*inMix;}
+  {const ins=inside(p.x,p.z)?1:0;inMix+=(ins-inMix)*Math.min(1,dt*3);fillWin.intensity=0.55*inMix;fillWarm.intensity=0.35*inMix;hemi.intensity=0.6-0.1*inMix;amb.intensity=0.18;}
   const target=groundH(p.f,p.x,p.z);p.gy+=(target-p.gy)*Math.min(1,dt*12);
-  camera.position.set(p.x,p.f*FH+p.gy+1.65,p.z);camera.rotation.y=p.yaw;camera.rotation.x=p.pitch;sky.position.copy(camera.position);
+  camera.position.set(p.x+Math.cos(p.yaw)*Math.sin(bobT)*0.025*bobA,p.f*FH+p.gy+1.65+Math.abs(Math.cos(bobT))*0.05*bobA-0.025*bobA,p.z-Math.sin(p.yaw)*Math.sin(bobT)*0.025*bobA);camera.rotation.z=Math.sin(bobT)*0.004*bobA;camera.rotation.y=p.yaw;camera.rotation.x=p.pitch;sky.position.copy(camera.position);
   const tt=now/1000;piles.forEach(pl=>{if(!pl.found){pl.gl.position.y=0.32+Math.sin(tt*2.5+pl.i)*0.06;pl.gl.material.opacity=0.65+Math.sin(tt*3+pl.i)*0.3;}});
   if(state==='play'){
     curInter=menuOpen?null:findInter();
@@ -974,11 +1074,12 @@ function loop(now){const dt=Math.min(0.05,(now-last)/1000);last=now;frame++;
   }
   renderer.render(scene,camera);requestAnimationFrame(loop);}
 
-function reset(){Object.assign(p,P0);gameT=0;found=0;lateShown=false;$('clock').classList.remove('late');setupPiles();renderSlots();renderAgenda();updateVis();}
+function reset(){if(ch.on)endChase();ch.next=95;Object.assign(p,P0);gameT=0;found=0;lateShown=false;$('clock').classList.remove('late');setupPiles();renderSlots();renderAgenda();updateVis();}
 $('b-start').onclick=()=>{hide('ov-start');state='play';$('btns').hidden=false;if(isTouch){joy.hidden=false;$('actbtn').hidden=false;}else lock();toast('Je staat op de Wibautstraat. Loop naar de ingang en open je agenda (N).');};
 $('b-again').onclick=()=>{hide('ov-end');reset();state='play';if(!isTouch)lock();};
 reset();
-window.__dbg={p,updateVis};
+[0,1,2,3,4].forEach((f,i)=>setTimeout(()=>grid(f),2500+i*500));// build the chase grids while the start screen is up
+window.__dbg={p,updateVis,ch,startChase};
 renderer.shadowMap.needsUpdate=true;
 requestAnimationFrame(loop);
 })();
